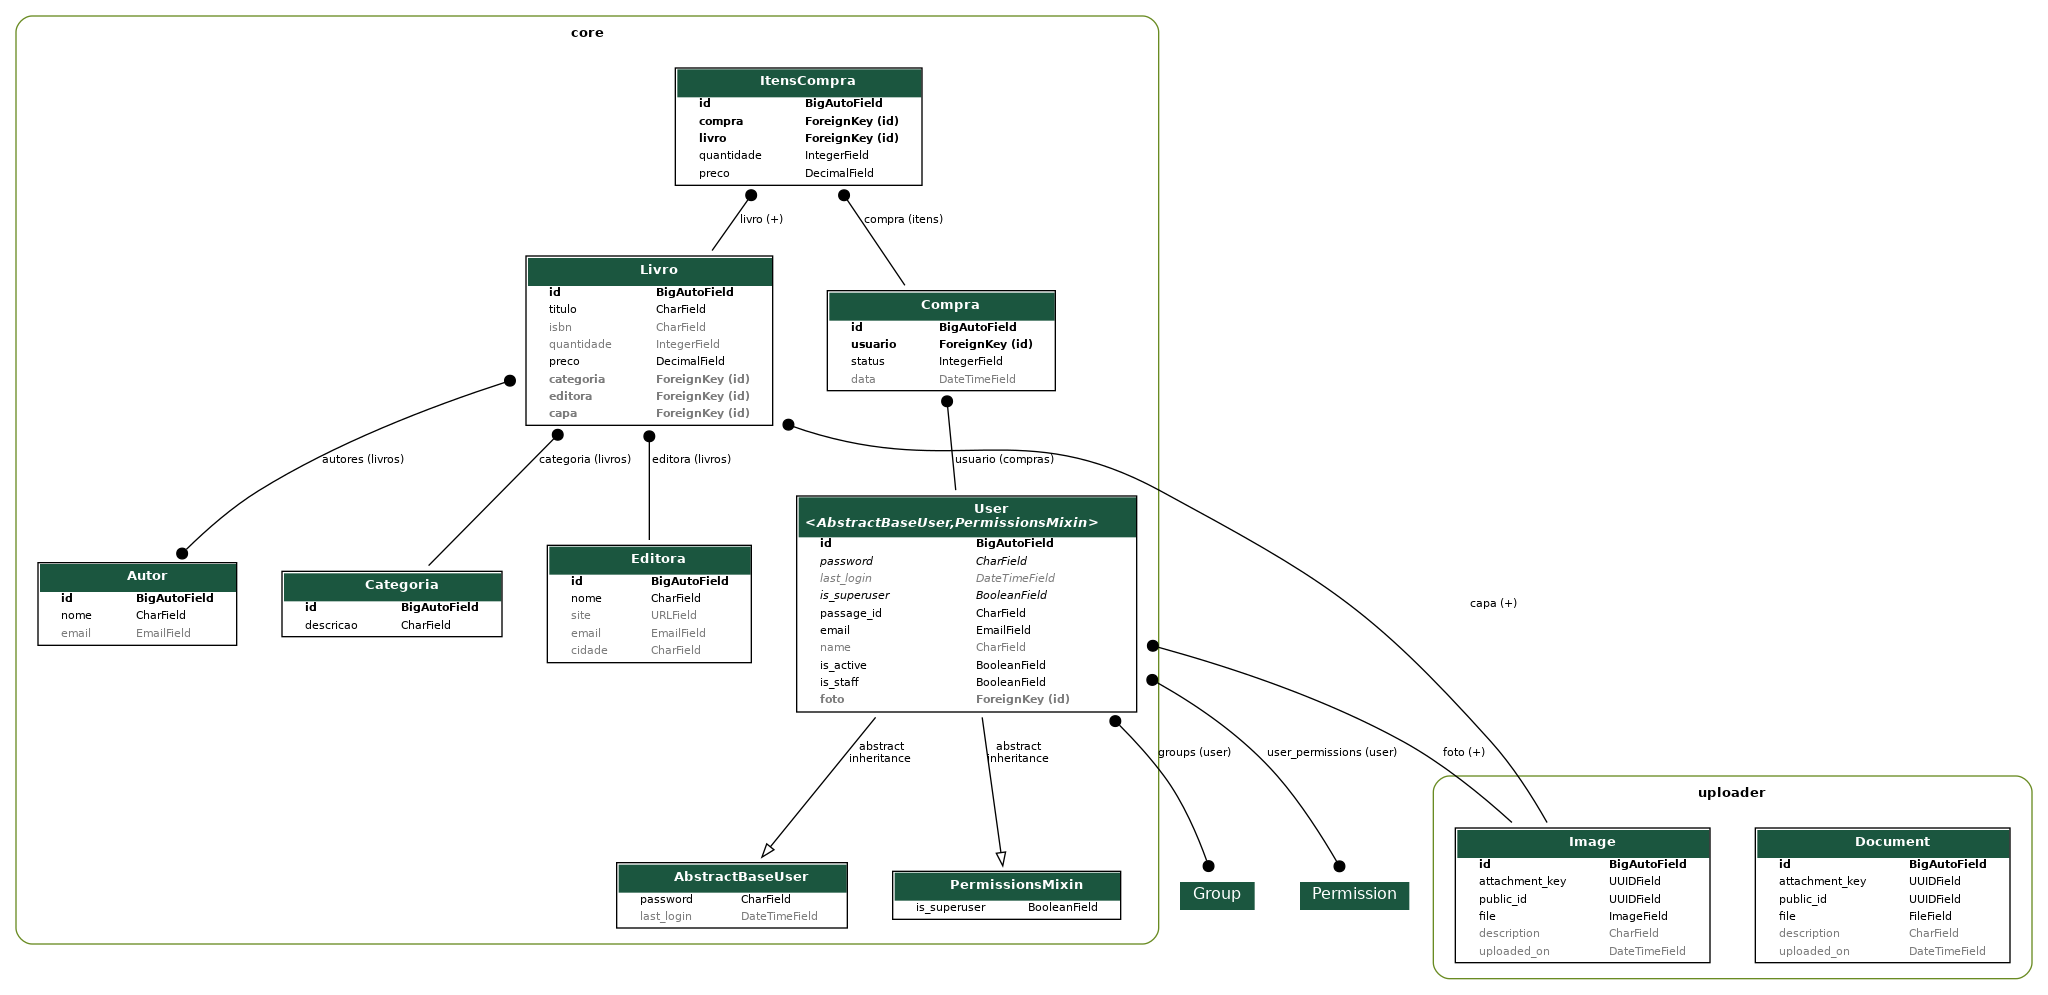
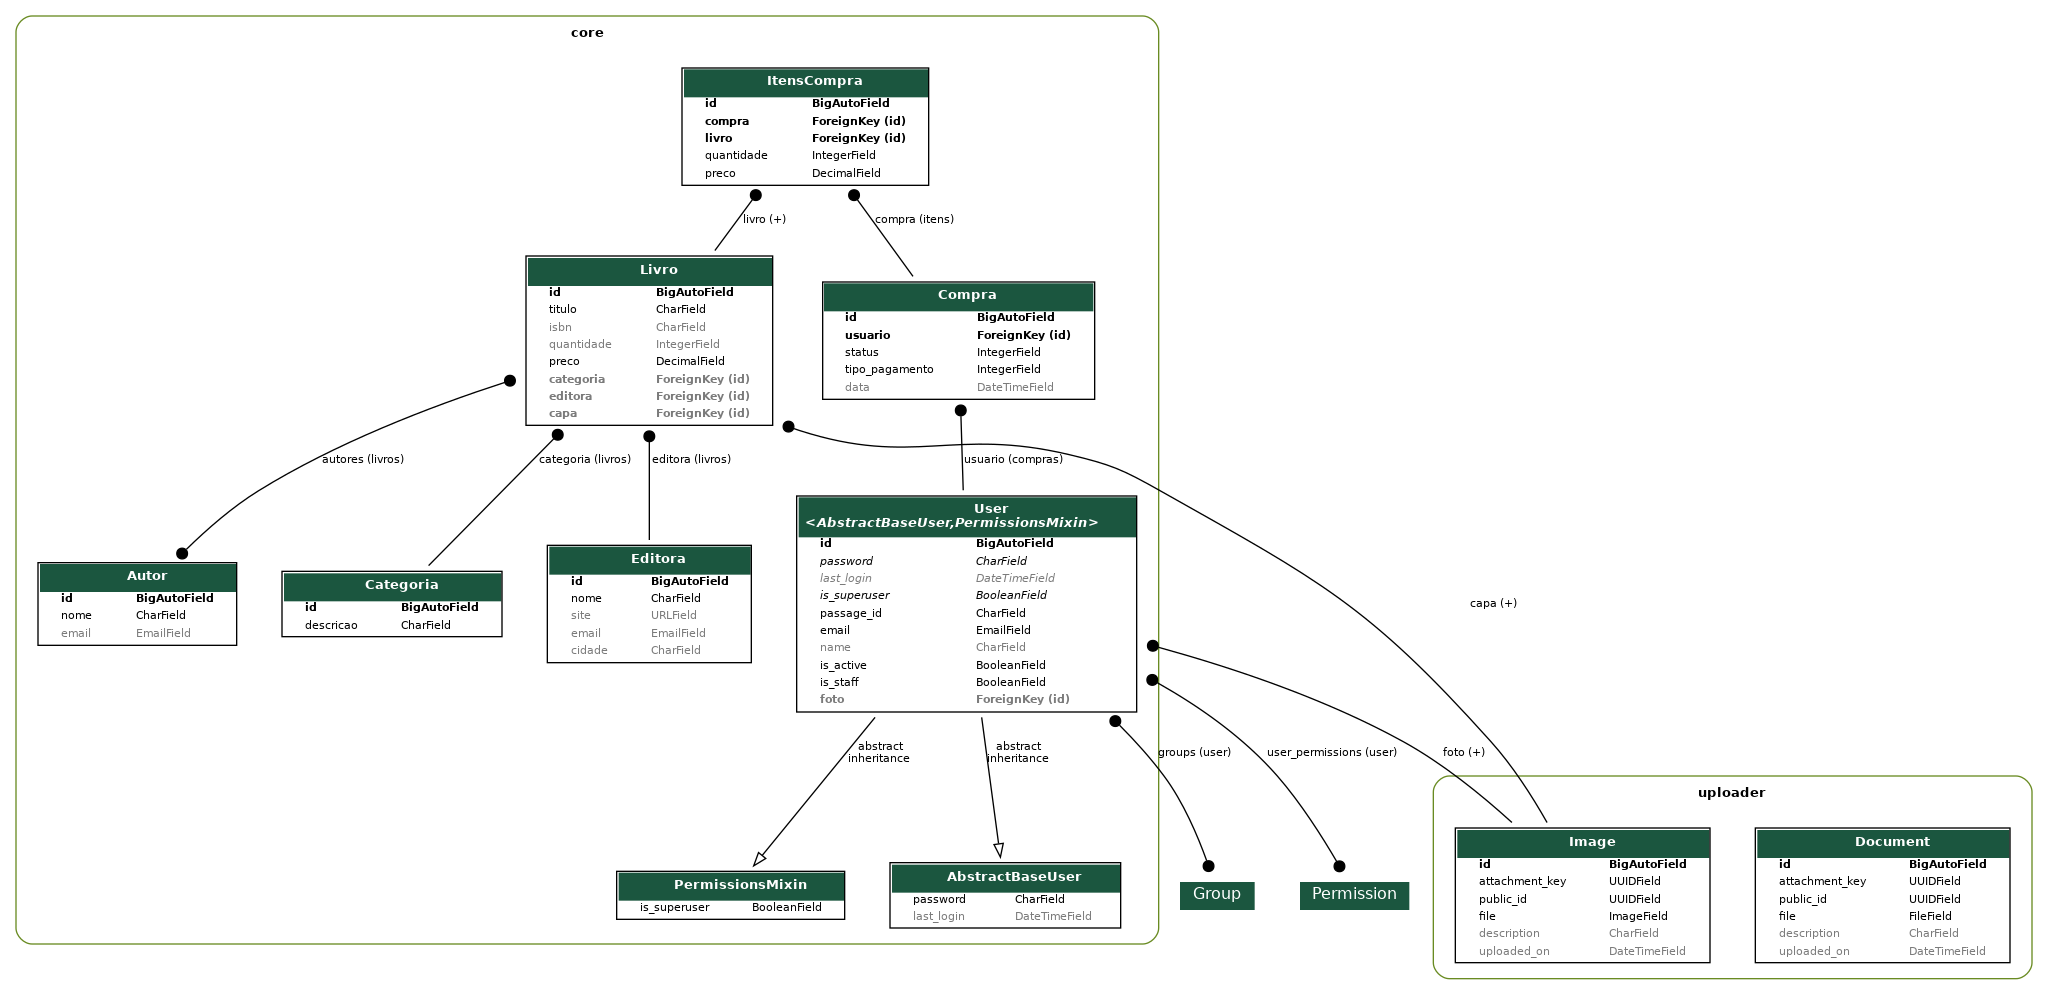
feat: adicionando tipo de pagamento à entidade de Compra #34

diff --git a/core/models/compra.py b/core/models/compra.py
@@ -11,8 +11,18 @@ class Compra(models.Model):
         PAGO = 3, 'Pago'
         ENTREGUE = 4, 'Entregue'
 
+    class TipoPagamento(models.IntegerChoices):
+        CARTAO_CREDITO = 1, 'Cartão de Crédito'
+        CARTAO_DEBITO = 2, 'Cartão de Débito'
+        PIX = 3, 'PIX'
+        BOLETO = 4, 'Boleto'
+        TRANSFERENCIA_BANCARIA = 5, 'Transferência Bancária'
+        DINHEIRO = 6, 'Dinheiro'
+        OUTRO = 7, 'Outro'
+
     usuario = models.ForeignKey(User, on_delete=models.PROTECT, related_name='compras')
     status = models.IntegerField(choices=StatusCompra.choices, default=StatusCompra.CARRINHO)
+    tipo_pagamento = models.IntegerField(choices=TipoPagamento.choices, default=TipoPagamento.CARTAO_CREDITO)
     data = models.DateTimeField(auto_now_add=True)
 
     @property

diff --git a/core/serializers/compra.py b/core/serializers/compra.py
@@ -89,8 +89,9 @@ class CompraSerializer(ModelSerializer):
     usuario_name = CharField(source='usuario.name', read_only=True)
     status = CharField(source='get_status_display', read_only=True)
     data = DateTimeField(read_only=True)
+    tipo_pagamento = CharField(source='get_tipo_pagamento_display', read_only=True)
     itens = ItensCompraSerializer(many=True, read_only=True)
 
     class Meta:
         model = Compra
-        fields = ('id', 'usuario_name', 'usuario_email', 'status', 'total', 'data', 'itens')
+        fields = ('id', 'usuario_name', 'usuario_email', 'status', 'total', 'data', 'tipo_pagamento', 'itens')

diff --git a/core/migrations/0021_compra_tipo_pagamento.py b/core/migrations/0021_compra_tipo_pagamento.py
@@ -1,0 +1,18 @@
+# Generated by Django 5.2.1 on 2025-09-11 13:52
+
+from django.db import migrations, models
+
+
+class Migration(migrations.Migration):
+
+    dependencies = [
+        ('core', '0020_compra_data'),
+    ]
+
+    operations = [
+        migrations.AddField(
+            model_name='compra',
+            name='tipo_pagamento',
+            field=models.IntegerField(choices=[(1, 'Cartão de Crédito'), (2, 'Cartão de Débito'), (3, 'PIX'), (4, 'Boleto'), (5, 'Transferência Bancária'), (6, 'Dinheiro'), (7, 'Outro')], default=1),
+        ),
+    ]
